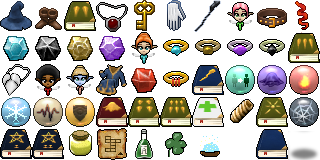
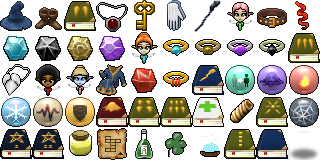
ADD New item: rapid shot

Changed region(s): [[0.6875, 0.7812, 0.8125, 1.0]]

diff --git a/src/PlayerEntity.cpp b/src/PlayerEntity.cpp
@@ -1282,7 +1282,27 @@ void PlayerEntity::fire(int direction)
         break;
       }
     }
-    if (!(equip[EQUIP_BOOK_DUAL] || equip[EQUIP_BOOK_DUAL_QUICK]) || (equip[EQUIP_BOOK_TRIPLE] || equip[EQUIP_BOOK_TRIPLE_QUICK]))
+    if (equip[EQUIP_RAPID_SHOT])
+    {
+      Vector2D boltDirection;
+      switch(direction)
+      {
+      case 4:
+        boltDirection = Vector2D(0, 0).vectorNearlyTo(Vector2D(-1, 0), fireVelocity, 0.2f);
+        break;
+      case 6:
+        boltDirection = Vector2D(0, 0).vectorNearlyTo(Vector2D(1, 0), fireVelocity, 0.2f);
+        break;
+      case 8:
+        boltDirection = Vector2D(0, 0).vectorNearlyTo(Vector2D(0, -1), fireVelocity, 0.2f);
+        break;
+      case 2:
+        boltDirection = Vector2D(0, 0).vectorNearlyTo(Vector2D(0, 1), fireVelocity, 0.2f);
+        break;
+      }
+      generateBolt(boltDirection.x, boltDirection.y);
+    }
+    else if (!(equip[EQUIP_BOOK_DUAL] || equip[EQUIP_BOOK_DUAL_QUICK]) || (equip[EQUIP_BOOK_TRIPLE] || equip[EQUIP_BOOK_TRIPLE_QUICK]))
     {
       switch(direction)
       {
@@ -1528,6 +1548,7 @@ void PlayerEntity::computePlayer()
   if (equip[EQUIP_LEATHER_BOOTS]) creatureSpeedBonus += 0.15f;
   if (equip[EQUIP_BOOK_TRIPLE]) fireDelayBonus += 0.7f;
   else if (equip[EQUIP_BOOK_DUAL]) fireDelayBonus += 0.5f;
+
   if (equip[EQUIP_BROOCH_FINESSE]) criticalChance += 5;
   if (equip[EQUIP_MANUAL_STAFF]) boltLifeTimeBonus += 0.4f;
   if (equip[EQUIP_MAHOGANY_STAFF])
@@ -1620,6 +1641,11 @@ void PlayerEntity::computePlayer()
   // post-computation
   if (equip[EQUIP_BOOK_TRIPLE_QUICK]) fireDamages *= 0.65f;
   else if (equip[EQUIP_BOOK_DUAL_QUICK]) fireDamages *= 0.75f;
+  else if (equip[EQUIP_RAPID_SHOT])
+  {
+    fireDelay *= 0.20f;
+    fireDamages *= 0.25f;
+  }
   if (equip[EQUIP_ALCOHOL]) fireDamages *= 1.25f;
 
   // spells

diff --git a/src/ItemEntity.cpp b/src/ItemEntity.cpp
@@ -52,10 +52,20 @@ bool ItemEntity::canBePickedUp()
     if (game().getPlayer()->isEquiped(itemType - FirstEquipItem)) return false;
 
   if (itemType == ItemBookDualShots || itemType == ItemBookTripleShots)
-    if (game().getPlayer()->isEquiped(EQUIP_BOOK_DUAL_QUICK) || game().getPlayer()->isEquiped(EQUIP_BOOK_TRIPLE_QUICK)) return false;
+    if (game().getPlayer()->isEquiped(EQUIP_BOOK_DUAL_QUICK)
+        || game().getPlayer()->isEquiped(EQUIP_BOOK_TRIPLE_QUICK)
+        || game().getPlayer()->isEquiped(EQUIP_RAPID_SHOT)) return false;
 
   if (itemType == ItemBookDualShotsQuick || itemType == ItemBookTripleShotsQuick)
-    if (game().getPlayer()->isEquiped(EQUIP_BOOK_DUAL) || game().getPlayer()->isEquiped(EQUIP_BOOK_TRIPLE)) return false;
+    if (game().getPlayer()->isEquiped(EQUIP_BOOK_DUAL)
+        || game().getPlayer()->isEquiped(EQUIP_BOOK_TRIPLE)
+        || game().getPlayer()->isEquiped(EQUIP_RAPID_SHOT)) return false;
+
+  if (itemType == ItemBookRapidShots)
+    if (game().getPlayer()->isEquiped(EQUIP_BOOK_DUAL)
+        || game().getPlayer()->isEquiped(EQUIP_BOOK_TRIPLE)
+        || game().getPlayer()->isEquiped(EQUIP_BOOK_DUAL_QUICK)
+        || game().getPlayer()->isEquiped(EQUIP_BOOK_TRIPLE_QUICK)) return false;
 
   return true;
 }

diff --git a/src/Items.h b/src/Items.h
@@ -117,6 +117,7 @@ enum enumItemType
   ItemAlcohol,
   ItemLuck,
   ItemFairyPowder,
+  ItemBookRapidShots,
 
   NUMBER_ITEMS
 };
@@ -375,6 +376,10 @@ const itemStuct items[NUMBER_ITEMS] =
     ItemFairyPowder, "item_fairy_powder", "item_fairy_powder_desc",
     10, true, FamiliarNone, false, false, true, 1, RarityCommon, true, -1, ShotTypeStandard, SpellNone
   },
+  {
+    ItemBookRapidShots, "item_rapid_shots", "item_rapid_shots_desc",
+    20, true, FamiliarNone, true, true, true, 1, RarityRare, false, -1, ShotTypeStandard, SpellNone
+  },
 };
 
 /** Item equipment type enum
@@ -428,6 +433,7 @@ enum item_equip_enum {
   EQUIP_ALCOHOL,
   EQUIP_LUCK,
   EQUIP_FAIRY_POWDER,
+  EQUIP_RAPID_SHOT,
 
   NUMBER_EQUIP_ITEMS
   };
@@ -470,6 +476,7 @@ const std::vector<item_equip_enum> sortedEquipement =
   EQUIP_BOOK_TRIPLE,
   EQUIP_BOOK_DUAL_QUICK,
   EQUIP_BOOK_TRIPLE_QUICK,
+  EQUIP_RAPID_SHOT,
 
   // familiars
   EQUIP_FAIRY,
@@ -488,7 +495,10 @@ const std::vector<item_equip_enum> sortedEquipement =
 
   // others
   EQUIP_BOSS_KEY,
-  EQUIP_FLOOR_MAP
+  EQUIP_FLOOR_MAP,
+  EQUIP_ALCOHOL,
+  EQUIP_LUCK,
+  EQUIP_FAIRY_POWDER
 };
 
 #endif

diff --git a/src/WitchBlastGame.cpp b/src/WitchBlastGame.cpp
@@ -3584,10 +3584,13 @@ item_equip_enum WitchBlastGame::getRandomEquipItem(bool toSale = false, bool noF
     if (itemOk && (items[eq].specialShot != ShotTypeStandard && items[eq].level >= 3) && player->canGetNewShot(true))
       itemOk = false;
 
-    if (itemOk && i == EQUIP_BOOK_DUAL && player->isEquiped(EQUIP_BOOK_DUAL_QUICK))
+    if (itemOk && i == EQUIP_BOOK_DUAL && (player->isEquiped(EQUIP_BOOK_DUAL_QUICK) || player->isEquiped(EQUIP_RAPID_SHOT)))
       itemOk = false;
 
-    if (itemOk && i == EQUIP_BOOK_DUAL_QUICK && player->isEquiped(EQUIP_BOOK_DUAL))
+    if (itemOk && i == EQUIP_BOOK_DUAL_QUICK && (player->isEquiped(EQUIP_BOOK_DUAL) || player->isEquiped(EQUIP_RAPID_SHOT)))
+      itemOk = false;
+
+    if (itemOk && i == EQUIP_RAPID_SHOT && (player->isEquiped(EQUIP_BOOK_DUAL_QUICK) || player->isEquiped(EQUIP_BOOK_DUAL)))
       itemOk = false;
 
     if (itemOk && noFairy && items[eq].familiar != FamiliarNone) itemOk = false;

diff --git a/src/BoltEntity.cpp b/src/BoltEntity.cpp
@@ -141,7 +141,17 @@ void BoltEntity::animate(float delay)
     for (int i=0; i<5; i++) generateParticule(100.0f + rand() % 150);
   }
   else
+  {
+    float oldX = x;
+    float oldY = y;
     CollidingSpriteEntity::animate(delay);
+    if (boltType != ShotTypeBomb && game().getPlayer()->isEquiped(EQUIP_RAPID_SHOT))
+      particleGenerator.GenerateParticles(frame, IMAGE_BOLT, (x + oldX) * 0.5f, (y + oldY) * 0.5f, BOLT_WIDTH, BOLT_HEIGHT,
+                        boltType == ShotTypeLightning ? Vector2D(20.0f) : Vector2D(0.0f, 0.0f),
+                        10, boltType == ShotTypeIce ? renderScale * 1.3f : renderScale);
+
+  }
+
 
   // key room collision
   if (game().getCurrentMap()->getRoomType() == roomTypeKey && !game().getCurrentMap()->isCleared())

diff --git a/src/ParticleGenerator.cpp b/src/ParticleGenerator.cpp
@@ -24,6 +24,7 @@ void ParticleGenerator::GenerateParticles(int frame, int imageId, float posX, fl
 		Vector2D newVelocity = velocity;
 		RandomizeVelocity(newVelocity);
 		float lifeTime = lifetimeDistribution(randomGenerator);
+		if (scale == 0.7f) lifeTime *= 0.3f;
 
 		GenerateBoltParticle(frame, newVelocity, posX, posY, lifeTime, scale );
 	}

diff --git a/src/WitchBlastGame.h b/src/WitchBlastGame.h
@@ -30,7 +30,7 @@
 #include <queue>
 
 // for tests
-#define TEST_MODE
+//#define TEST_MODE
 
 const int ALIGN_LEFT    = 0;  /*!< Text alignment left */
 const int ALIGN_RIGHT   = 1;  /*!< Text alignment right */
